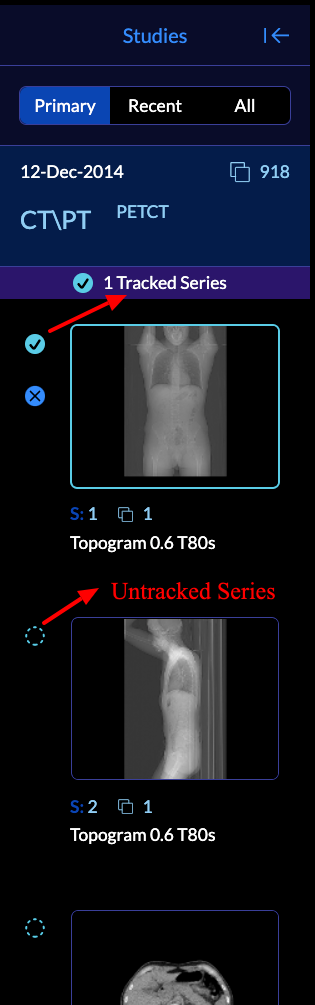
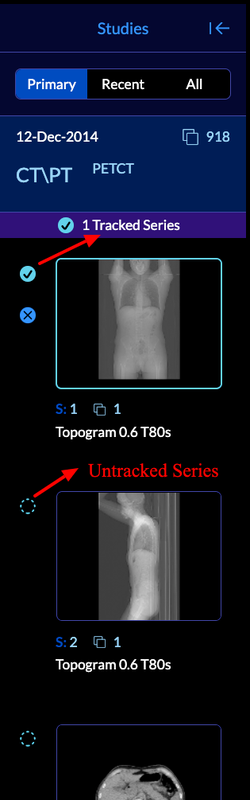
feat: Revised user guides based on feedbacks

diff --git a/platform/docs/docs/userManuals/viewer/toolbar.md b/platform/docs/docs/userManuals/viewer/toolbar.md
@@ -17,58 +17,66 @@ The four main components of the toolbar are:
 
 ## Tools
 This section displays all the available tools inside the mode.
-
 ## Measurement tools
-They can be used to measure the area of interest. This measurement can be performed
-via:
+The basic viewer comes with the following default measurement tools:
 
-- Length Tool: Calculated the distance between two points
-- Bidirectional Tool: A 2D Length tool in two main axis
-- Annotation: To label and point to an area
-- Ellipse: Calculates statistics on a ellipse area
-- Rectangle: Calculates statistics on a rectangle area
-- Probe: To read the intensity value at a location
+- Length Tool: Calculates the linear distance between two points in *mm*
+- Bidirectional Tool: Creates a measurement of longest diameter (LD) and longest perpendicular diameter (LPD) in *mm*
+- Annotation: Used to create a qualitative marker with a freetext label
+- Ellipse: Measures an ellipical area in *mm<sup>2</sup>* and Hounsfield Units (HU)
 
+When a measurement tool is selected from the toolbar, it becomes the `active` tool. Use the caret to expand the measurement tools and select another tool.
+<!-- We should add a smaller screenshot for each measurement tool. Maybe have a matrix with 4 identical sized screenshots in a box? Also we should make sure the screenshots have more realistic measurements -->
 
 ![user-viewer-toolbar-measurements](../../assets/img/user-viewer-toolbar-measurements.png)
 
-To draw a measurement you can select it from the toolbar and click and drag mouse
-to reach the desired shape, size and direction.
 
-A sample tool drawing is shown below
+## Window/Level
+The `Window/Level` tool enables manipulating the window level and window width of the rendered image. Click on the tool to enable freeform adjustment, then click and drag on the viewport to freely adjust the window/level.
 
+Click on the caret to expand the tool and choose from predefined W/L settings for common imaging scenarios.
 
-## Presets
-Preset tool enables manipulating the window level and window width of the rendered
-image, which basically modifies the contrast and brightness.
-
-You can also choose from the list of pre-defined presets by clicking on the triangle.
 
 ![user-toolbar-preset](../../assets/img/user-toolbar-preset.png)
 
 
-## Download High Quality Image
-By clicking on the Camera icon you can open the window for downloading the image as
-common image formats (png, jpg)
+## Pan and Zoom
+With the Zoom tool selected, click and drag the cursor on an image to adjust the zoom. The magnification level is displayed in the viewport.
+
+With the Pan tool selected, click and drag the cursor on an image to adjust the image position.
+
+## Image Capture
+Click on the Camera icon to download a high quality image capture using common image formats (png, jpg)
 
 ![user-toolbar-download-icon](../../assets/img/user-toolbar-download-icon.png)
 
-In the opened modal, you can set the filename, image's width and height, and filetype and press download for downloading the image to your local computer.
+In the opened modal, the filename, image's width and height, and filetype and can be configured before downloading the image to your local computer.
 
 ![user-toolbar-download](../../assets/img/user-toolbar-download.png)
 
 
-## Extra tools
-Lots of other tools are also available in the last tool icon drawer. If you
-click on the triangle they will get appeared.
 
-![user-toolbar-extra](../../assets/img/user-toolbar-extra.png)
+## Layout Selector
+Please see the `Viewport` section for details.
 
 
+## More Tools Menu
+- Reset View: Resets all image manipulation such as position, zoom, and W/L
+- Rotate Right: Flips the image 90 degrees clockwise
+- Flip Horizontally: Flips the image 180 degrees horizontally
+- Stack Scroll: Links all viewports containing images to scroll together
+- Magnify: Click on an image to magnify a particular area of interest
+- Invert: Inverts the colorscale
+- Cine: Toggles the Cine player control in the currently selected viewport. Click the `x` on the Cine player or click the tool again to toggle off.
+- Angle: Measures an adjustable angle on an image
+<!-- - Probe: Should probe be enabled in basic viewer? Doesn't look like it works currently -->
+- Rectangle: Measures a rectangular area in mm^2 and HU
 
+When a tool is selected from the `More Tools` menu, it becomes the active tool until it is replaced by clicking on a different tool in the More Tools menu or main toolbar.
+
+<!-- Cine player tool -->
 ## Overview Video
 An overview of tool usage can been seen below:
-
 
 
 <div style={{padding:"56.25% 0 0 0", position:"relative"}}>

diff --git a/platform/docs/docs/userManuals/index.md b/platform/docs/docs/userManuals/index.md
@@ -6,16 +6,17 @@ sidebar_label: Study list
 # Study list
 
 ## Overview
-The first page you will see when the viewer is loaded is called `Study List`.
+The first page you will see when the viewer is loaded is the `Study List`.
 In this page you can explore all the studies that are stored on the configured
 server for the `OIHF Viewer`.
 
 ![user-study-list](../assets/img/user-study-list.png)
 
-At the end of the page you can navigate to the next/previous page or change the
-default number of studies that are shown
 
-![user-study-next](../assets/img/user-study-next.png)
+## Sorting
+
+When the Study List is opened, the application queries the PACS for 101 studies by default. If there are greater than 100 studies returned, the default sort for the study list is dictated by the image archive that hosts these studies for the viewer and study list sorting will be disabled. If there are less than or equal to 100 studies returned, they will be sorted by study date (most recent to oldest) and study list sorting will be enabled. Whenever a query returns greater than 100 studies, use filters to narrow results below 100 studies to enable Study List sorting.
+
 ## Filters
 There are certain filters that can be used to limit the study list to the desired
 criteria.
@@ -27,44 +28,49 @@ criteria.
 - Modality: Filters the modalities
 - Accession: Searches between patients accession number
 
-
 An example of using study list filter is shown below:
+
+
+
 
 ![user-study-filter](../assets/img/user-study-filter.png)
 
+Below the study list are pagination options for 25, 50, or 100 studies per page.
+
+![user-study-next](../assets/img/user-study-next.png)
 ## Study Summary
-If you you click on one of the studies, the panel for displaying the summary
-of the study will shows up.
+Click on a study to expand the study summary panel.
 
 ![user-study-summary](../assets/img/user-study-summary.png)
 
-As you can see, a summary of series available in the study is shown, which contains
-the series description, series number, modality of the series, and instances in the series.
 
-Next, We will discuss the modes, and their enabled/disabled states.
+
+A summary of series available in the study is shown, which contains the series description, series number, modality of the series, instances in the series, and buttons to launch viewer modes to display the study.
+
 
 
 ## Study Specific Modes
-As seen for each study, all the available modes will get shown. What is a mode?
-Modes define the higher-level functionalities and appearance for the viewer.
-For instance, as seen, there are two modes shown for the selected study
+
+
+All available modes are seen in the study expanded view. Modes can be enabled or disabled for a study based on the modalities contained within the study.
+
+In the screenshot below, there are two modes shown for the selected study
 
 - Basic Viewer: Default mode that enables rendering and measurement tracking
 
 - PET/CT Fusion: Mode for visualizing the PET CT study in a 3x3 format.
 
-However, based on the mode configurations (e.g., available modalities), they can be
-enabled or disabled.
+Based on the mode configurations (e.g., available modalities), PET/CT mode is disabled for studies that do not contain PET AND CT images.
 
-Below, you can see two studies, In Study 1, Basic Viewer mode is enabled and
-ready to be used; however, the PET/CT fusion is disabled by the viewer since
-only PET images are found in the study.
+<!-- This should be a screenshot that show an expanded study with multiple modalities (CT, MRI) but not PET. -->
+
 
 ![user-studyist-modespecific](../assets/img/user-studyist-modespecific.png)
 
+The previous screenshot shows a study containing PET and CT images and both Basic Viewer and PET/CT Mode are available.
+
 
 ## View Study
-You can click on the `Basic Viewer` to open the viewer for the selected study.
-
+The `Basic Viewer` mode is available for all studies by default. Click on the mode button to launch the viewer.
 
 ![user-open-viewer](../assets/img/user-open-viewer.png)

diff --git a/platform/docs/docs/userManuals/viewer/measurement-panel.md b/platform/docs/docs/userManuals/viewer/measurement-panel.md
@@ -2,23 +2,28 @@
 sidebar_position: 3
 ---
 
-# Measurement panel
+# Measurement Panel
 
 ## Introduction
-In `Basic Viewer` mode, right panel is the `Measurement Panel`. When you use an annotation tool, a pop up will show up and asks the user if they want to track measurements for the
-series on which the annotation was drawn.
+In `Basic Viewer` mode, the right panel is the `Measurement Panel`. The Measurement Panel can be expanded or hidden by clicking on the arrow to the left of `Measurements`.
+<!-- We might want to make an entire section about the tracking workflow including SR hydration because it's pretty complicated. Let's review after the deploy branch is ready. Logic is in OHIF-63 OHIF-339 tickets for reference -->
+Select a measurement tool and mark an image to initiate measurement tracking. A pop up will ask if you want to track measurements for the series on which the annotation was drawn.
 
 ![user-measurement-panel-modal](../../assets/img/user-measurement-panel-modal.png)
 
-If you select `yes`, the series becomes a `tracked series`, and the current drawn measurement and next measurements will get shown up on the measurement panel on the right.
+If you select `Yes`, the series becomes a `tracked series`, and the current drawn measurement and next measurements will get shown up on the measurement panel on the right.
 
 
 ![user-measurement-panel-tracked](../../assets/img/user-measurement-panel-tracked.png)
 
+If you select `No`, the measurement becomes temporary. The next annotation made will repeat the measurement tracking prompt.
 
+If you select `No, do not ask again`, all annotations made on the study will be temporary.
+<!-- Temporary measurement screenshot -->
 
-## Renaming Measurements
-You can edit the measurement name by hovering over the measurement and selecting the edit icon.
+## Labeling Measurements
+You can edit the measurement name by hovering over the measurement and selecting the edit icon. You can also label or relabel a measurement by right-clicking on it in the viewport.
+<!-- I would make this first screenshot smaller. Remove the other 2 screenshots as they are pretty self explanatory. Add another screenshot that shows the right-click menu option to lable/relabel measurement and justify the two screenshots in line together -->
 
 ![user-measurement-edit](../../assets/img/user-measurement-edit.png)
 
@@ -30,21 +35,18 @@ Result:
 
 
 ## Deleting a Measurement
-A measurement can be deleting by dragging it outside the image in the viewport. You can
-take a look at the overview video to see this behavior.
+A measurement can be deleting by dragging it outside the image in the viewport or by right-clicking on the measurement in the viewport and selecting 'Delete'.
 
 
 ## Jumping to a Measurement
-Measurements that appear on the measurement panel are linked directly to their original
-tool on the viewport. This enables the user to click on a measurement and the viewport will jump to the slice that the measurement has been drawn. You can
-take a look at the overview video to see this behavior.
-
-## Prev/Next Measurement
 Measurement navigation inside the top viewport can be used to move to previous and next measurement.
 
 ![user-measurement-prevnext](../../assets/img/user-measurement-prevnext.png)
 
+If a series containing a measurement is currently being displayed in a viewport, you can jump to display the measurement in the viewport by clicking on it in the Measurement Panel.
+
 ## Export Measurements
+<!-- I think PDF and DICOM export didn't make it into this version but should be options. Let's confirm -->
 You can export the measurements by clicking on the `Export`. A CSV file will get downloaded to your local computer containing the drawn measurements.
 
 
@@ -65,7 +67,6 @@ For instance, running the Viewer on a local DCM4CHEE:
 
 ## Overview Video
 An overview of measurement drawing and exporting can be seen below:
-
 
 
 <div style={{padding:"56.25% 0 0 0", position:"relative"}}>

diff --git a/platform/docs/docs/userManuals/viewer/study-panel.md b/platform/docs/docs/userManuals/viewer/study-panel.md
@@ -7,14 +7,21 @@ sidebar_position: 2
 In `Basic Viewer` mode, the left panel includes Studies related to the current patient.
 You can see three main type of studies below
 
-- Primary: The opened study from the study list
-- Recent: Other studies for this patient
-- All: Includes both primary and recent studies
+- Primary: The opened study from the study list. This study is always expanded by default.
+- Recent: All studies for the patient that contain study dates within 1 year of the primary study
+- All: All studies available for the patient contained within the source repository
+
+The `Study Panel` displays the measurement tracking status of each series within a study. As you can see in the first picture, the dashed circle on the left side of each series demonstrates whether the series is being tracked for measurement or not.
+<!-- We should resize this screenshot to make it smaller. We might want to add both screenshots in-line to make better use of horizontal space. Let's ask Dan -->
 
 ![user-study-panel](../../assets/img/user-study-panel.png)
 
-This is a new feature that we have added to `OHIF-v3`, that shows all the studies that the patient with the specific MRN had and are available from the data storage.
+
+
+Studies can be expanded or collapsed by clicking on the study information in the Study Panel. If a series is being tracking within a study, the Measurement Panel will display this information while the study is collapsed.
 
 ![user-studylist-all](../../assets/img/user-studylist-all.png)
 
-As you can see the first picture, the dashed circle on the left side of each series demonstrates whether the series is being tracked for measurement or not.
+<!-- We should link to refer to measurement tracking section -->
+
+<!-- We need to add SR functionality descriptions to this section -->

diff --git a/platform/docs/docs/userManuals/viewer/viewport.md b/platform/docs/docs/userManuals/viewer/viewport.md
@@ -4,7 +4,6 @@ sidebar_position: 4
 
 # Viewport
 
-## Introduction
 Image visualization happens at the viewport which contains canvas or canvases that
 renders series.
 
@@ -18,10 +17,8 @@ By default you can modify:
 - Pan: middle click dragging
 
 
-
 ## Changing Series for display
 To change the displayed series, you can drag and drop the desired series from the left panel. Start, by dragging the thumbnail of the series, and drop it on the viewport.
-
 
 ## Changing Layout
 If you click on the layout icon on the toolbar, you can use the layout selector UI. After changing the layout, you can select studies for each new viewport by dragging and dropping in to the viewport.
@@ -29,12 +26,12 @@ If you click on the layout icon on the toolbar, you can use the layout selector 
 After changing the layout from 1x1, you will see each viewport gets tagged by a letter,
 which matches its series section in the study list.
 
+
 ![user-viewer-layout](../../assets/img/user-viewer-layout.png)
 
 
 ## Overview Video
 An overview of viewport layout change, and manipulation can be seen below:
-
 
 
 <div style={{padding:"56.25% 0 0 0", position:"relative"}}>